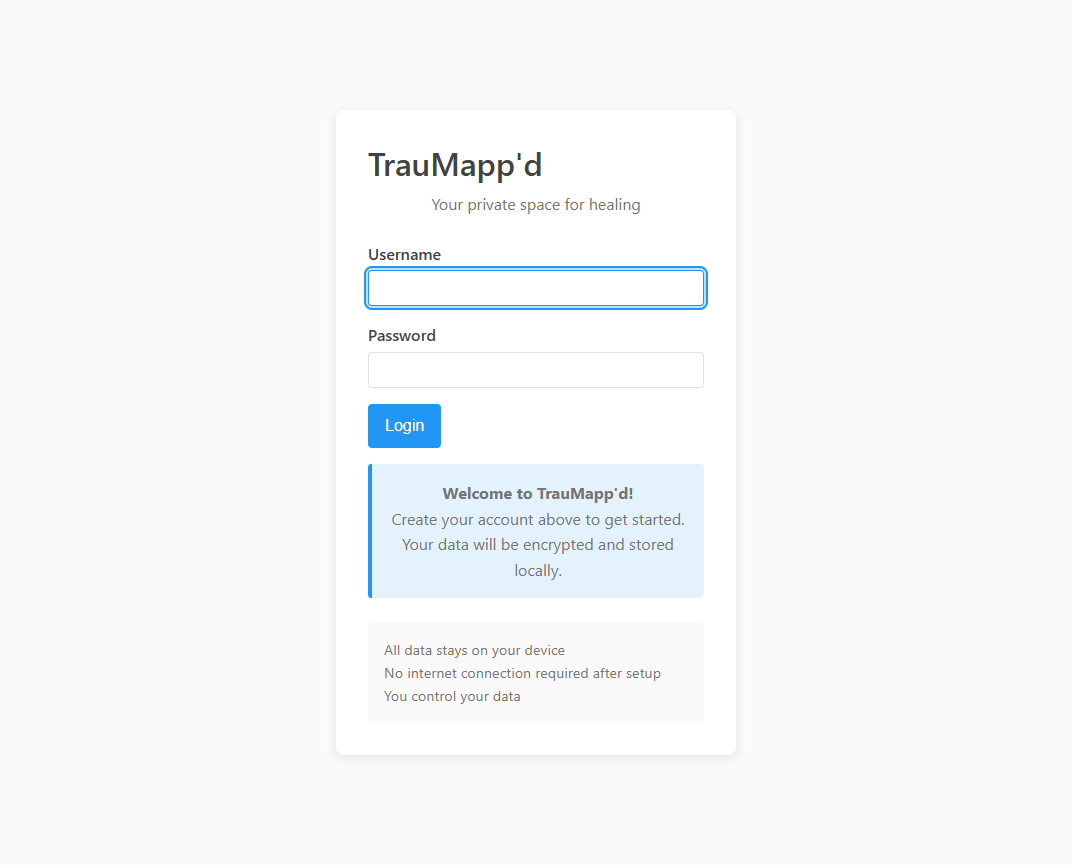
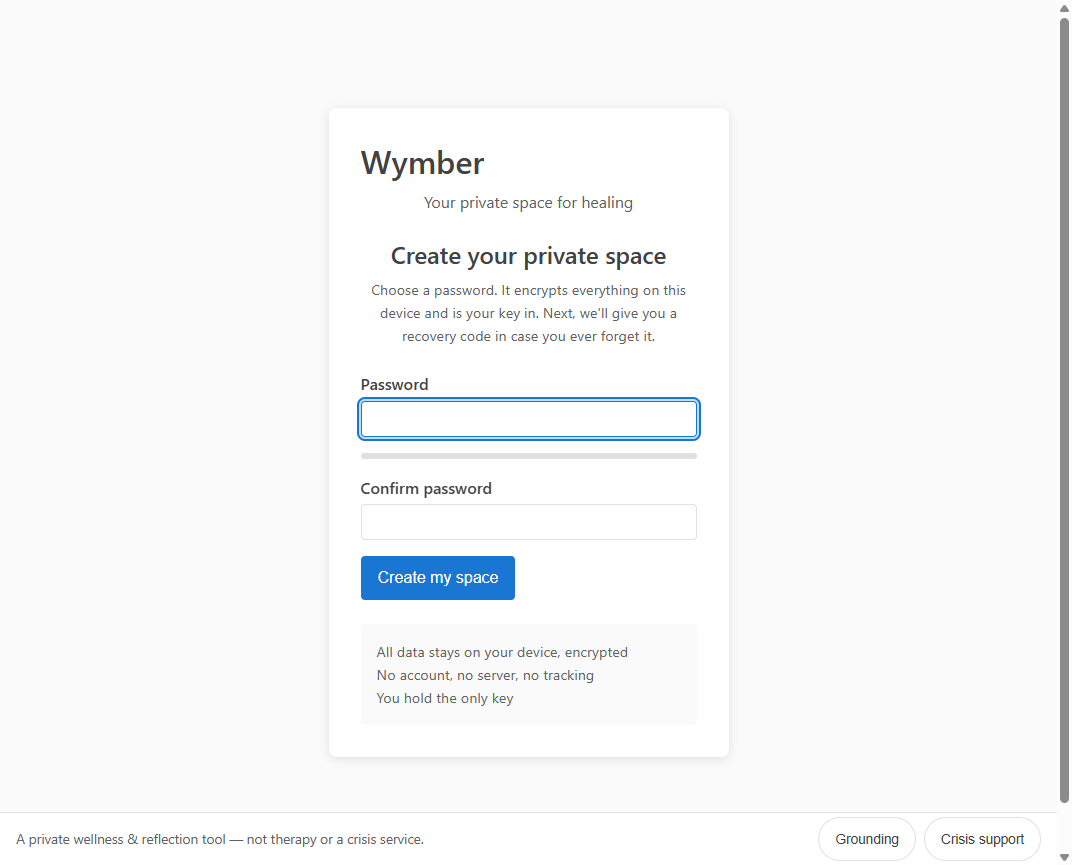
Refresh marketing: rename TrauMapp'd → Wymber, update screenshots
- Blanket rename across positioning.md, pitch-deck.md, android-concept.md
- Reframe the name note: Wymber is chosen (from prototype "TrauMapp'd"),
  pending final trademark check (#77)
- Replace stale login/main screenshots with the new local-first UI

diff --git a/docs/marketing/positioning.md b/docs/marketing/positioning.md
@@ -1,6 +1,6 @@
-# TrauMapp'd — Positioning & Messaging
+# Wymber — Positioning & Messaging
 
-> **Working name.** "TrauMapp'd" is provisional pending brand/name research (existence, trademark, app-store/domain collisions, and audience resonance). See the open research; alternatives and a recommendation will land here.
+> **Name.** "Wymber" is the chosen name (renamed from the prototype "TrauMapp'd"), provisional pending a final trademark check — see issue #77.
 
 > **Marketing guardrails (non-negotiable).** This is a **self-help / wellness** tool, **not therapy or a medical device**. No claims of treating, diagnosing, or curing trauma/PTSD. No outcome promises. Language stays gentle, validating, and non-triggering. Privacy claims must be literally true (they are: local-first; sync is end-to-end encrypted / zero-knowledge).
 
@@ -13,13 +13,13 @@
 ## Elevator pitches
 
 **15 seconds.**
-TrauMapp'd is a privacy-first app for mapping trauma experiences as a visual mind map. Everything stays on your device, encrypted; you own your story. It's the calm, safe middle ground between a journal and a whiteboard — built with trauma-informed design.
+Wymber is a privacy-first app for mapping trauma experiences as a visual mind map. Everything stays on your device, encrypted; you own your story. It's the calm, safe middle ground between a journal and a whiteboard — built with trauma-informed design.
 
 **30 seconds.**
-Survivors are often told to "connect the dots" — between triggers, emotions, people, and coping — but there's no safe, private tool to actually *see* those connections. TrauMapp'd lets you map your experiences as an interactive mind map: events, emotions, triggers, coping, growth, and how they relate. It's local-first and end-to-end encrypted, so your most sensitive reflections never leave your control. Free on your own device; pay only if you want encrypted sync across your phone, desktop, and the web.
+Survivors are often told to "connect the dots" — between triggers, emotions, people, and coping — but there's no safe, private tool to actually *see* those connections. Wymber lets you map your experiences as an interactive mind map: events, emotions, triggers, coping, growth, and how they relate. It's local-first and end-to-end encrypted, so your most sensitive reflections never leave your control. Free on your own device; pay only if you want encrypted sync across your phone, desktop, and the web.
 
 **60 seconds.**
-Healing from trauma is rarely linear, and the tools people reach for don't fit. Journals are a wall of text. Generic mind-mappers aren't safe or gentle. Mental-health apps often harvest the most intimate data imaginable. TrauMapp'd is different: a trauma-informed, privacy-first tool for *mapping* your experience — laying out events, emotions, people, places, triggers, coping strategies, insights, and growth as a living map you can rearrange and connect. It's designed to feel calm and predictable: soft colors, gentle language, no jarring motion, crisis resources always within reach. Your data is local-first and encrypted with a key only you hold; even our optional paid cloud sync is zero-knowledge, so we literally cannot read your map. Later, an optional **on-device** AI can gently help you notice patterns — never sending a word of your story to anyone. It's the tool we wished existed: yours, private, and quietly empowering.
+Healing from trauma is rarely linear, and the tools people reach for don't fit. Journals are a wall of text. Generic mind-mappers aren't safe or gentle. Mental-health apps often harvest the most intimate data imaginable. Wymber is different: a trauma-informed, privacy-first tool for *mapping* your experience — laying out events, emotions, people, places, triggers, coping strategies, insights, and growth as a living map you can rearrange and connect. It's designed to feel calm and predictable: soft colors, gentle language, no jarring motion, crisis resources always within reach. Your data is local-first and encrypted with a key only you hold; even our optional paid cloud sync is zero-knowledge, so we literally cannot read your map. Later, an optional **on-device** AI can gently help you notice patterns — never sending a word of your story to anyone. It's the tool we wished existed: yours, private, and quietly empowering.
 
 ---
 

diff --git a/docs/marketing/android-concept.md b/docs/marketing/android-concept.md
@@ -1,4 +1,4 @@
-# TrauMapp'd — Android App Concept
+# Wymber — Android App Concept
 
 > **Honest framing:** these are **concepts and wireframes**, not production renders. High-fidelity mockups come after the mobile-stack ADR (issue #11) and the trauma-informed UX work (epic #32). Use these to align on direction and for early marketing visuals (clearly labeled "concept").
 
@@ -35,7 +35,7 @@ Theme (light/dark/soft), text size, **Sync** (paid, off by default, explained pl
 ```
   Map (home)                      Add node (bottom sheet)
  ┌───────────────────┐           ┌───────────────────┐
- │  TrauMapp'd    ⚙   │           │  ░░░░ (dimmed) ░░░ │
+ │  Wymber    ⚙   │           │  ░░░░ (dimmed) ░░░ │
  │                   │           │┌─────────────────┐│
  │      (emotion)    │           ││ Add to your map ✕││
  │        \          │           ││ Type:           ││

diff --git a/docs/marketing/pitch-deck.md b/docs/marketing/pitch-deck.md
@@ -1,4 +1,4 @@
-# TrauMapp'd — Pitch Deck (content)
+# Wymber — Pitch Deck (content)
 
 Slide-by-slide copy + speaker notes. Render this in Slides/Pitch/Marp later; this file is the source of truth for the narrative. Keep visuals soft (pastel palette, generous whitespace, no harsh imagery).
 
@@ -7,7 +7,7 @@ Slide-by-slide copy + speaker notes. Render this in Slides/Pitch/Marp later; thi
 ---
 
 ### 1 — Title
-**TrauMapp'd**
+**Wymber**
 *See your healing take shape.*
 > Soft hero visual (the map screenshot, dimmed). Tagline only. Calm.
 
